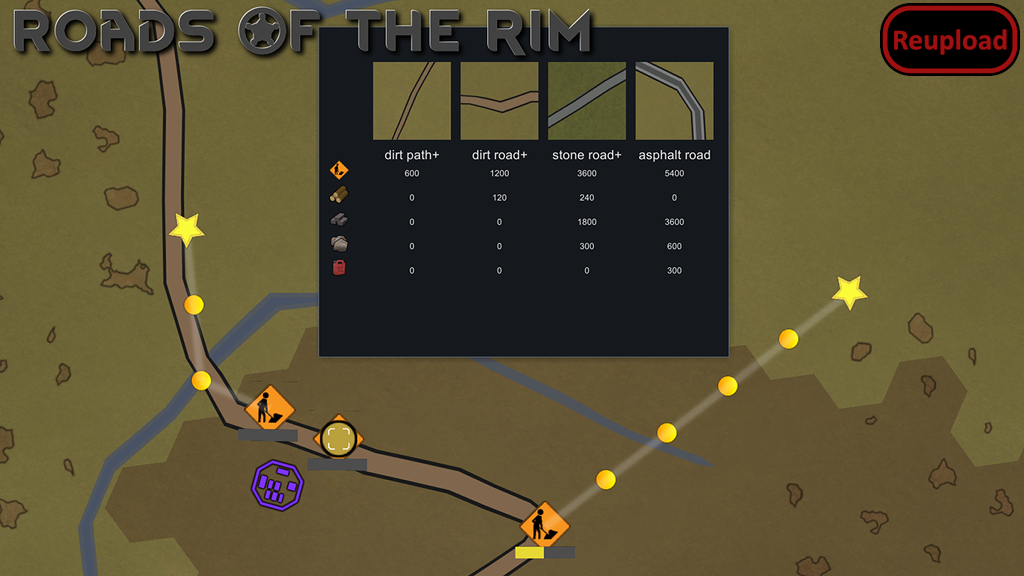
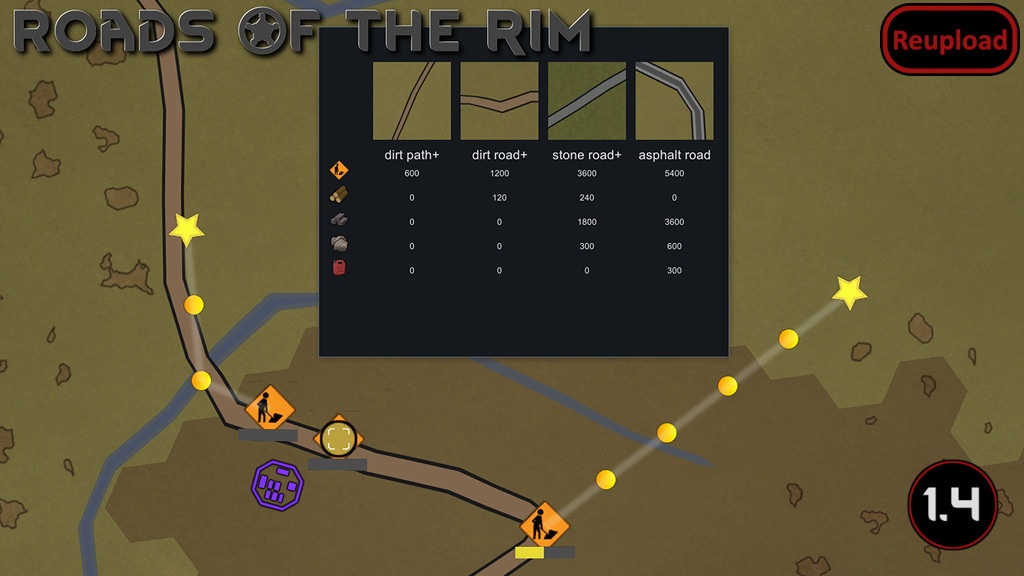
Added research-requirements

Changed region(s): [[0.875, 0.7812, 1.0, 0.9688]]

diff --git a/README.md b/README.md
@@ -188,4 +188,4 @@ It will save a lot of your time (and a little bit of mine ;-) )
 -  If you have the solution for a problem, please post it to the GitHub repository.
 
 
-https://steamcommunity.com/sharedfiles/filedetails/changelog/2280318231]Last updated 2023-06-13
+https://steamcommunity.com/sharedfiles/filedetails/changelog/2280318231]Last updated 2023-08-31
